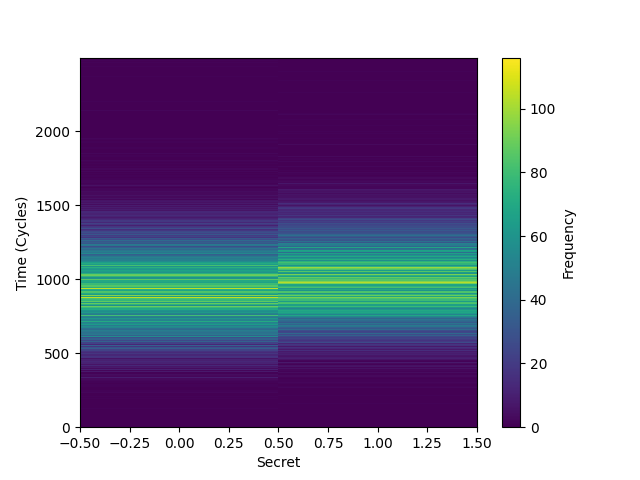
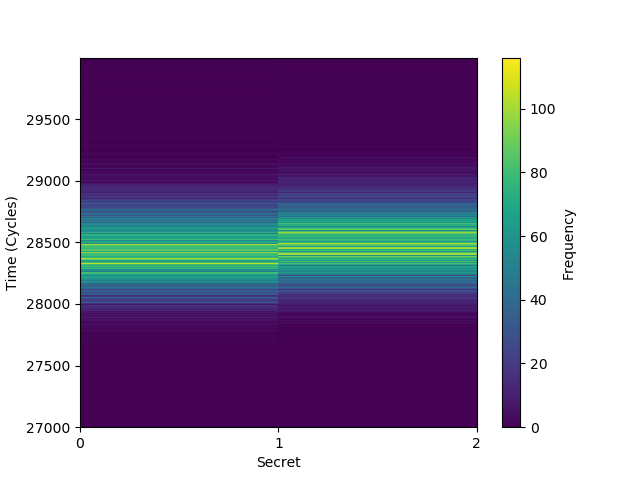
Modified graphs

diff --git a/graph/plot.py b/graph/plot.py
@@ -8,7 +8,7 @@ np.set_printoptions(threshold=np.inf)
 import sys
 
 if __name__ ==  "__main__":
-    file = open("./llc-kernel-kc-100k", "r")
+    file = open("./llc-kernel-100k", "r")
     x = []
     y = []
 
@@ -25,7 +25,7 @@ if __name__ ==  "__main__":
         a[time][secret] += 1
 
     # half = math.floor(len(a)/2)
-    a = a[28500:31000][:]
+    a = a[27000:30000][:]
 
     plt.imshow(a, interpolation='nearest', aspect='auto')
     ax = plt.gca()
@@ -41,6 +41,7 @@ if __name__ ==  "__main__":
     # plt.yticks([0, 2000, 4000, 6000, 8000, 10000, 12000, 14000, 16000], [0+30000, 2000+30000, 4000+30000, 6000+30000, 8000+30000, 10000+30000, 12000+30000, 14000+30000, 16000+30000])
     # plt.yticks([0, 100, 200, 300, 400, 500, 600], [0+48000, 100+48000, 200+48000, 300+48000, 400+48000, 500+48000, 600+48000])
     # plt.yticks([0, 500, 1000, 1500, 2000], [0+28000, 500+28000, 1000+28000, 1500+28000, 2000+28000])
-    # plt.yticks([0, 500, 1000, 1500, 2000, 2500], [0+26500, 500+26500, 1000+26500, 1500+26500, 2000+26500, 2500+26500])
+    plt.yticks([0, 500, 1000, 1500, 2000, 2500], [0+27000, 500+27000, 1000+27000, 1500+27000, 2000+27000, 2500+27000])
+    plt.xticks([-0.5, 0.5, 1.5], [0, 1, 2])
 
-    plt.savefig("llc-kernel-kc-100k.png")
+    plt.savefig("llc-kernel-100k.png")
